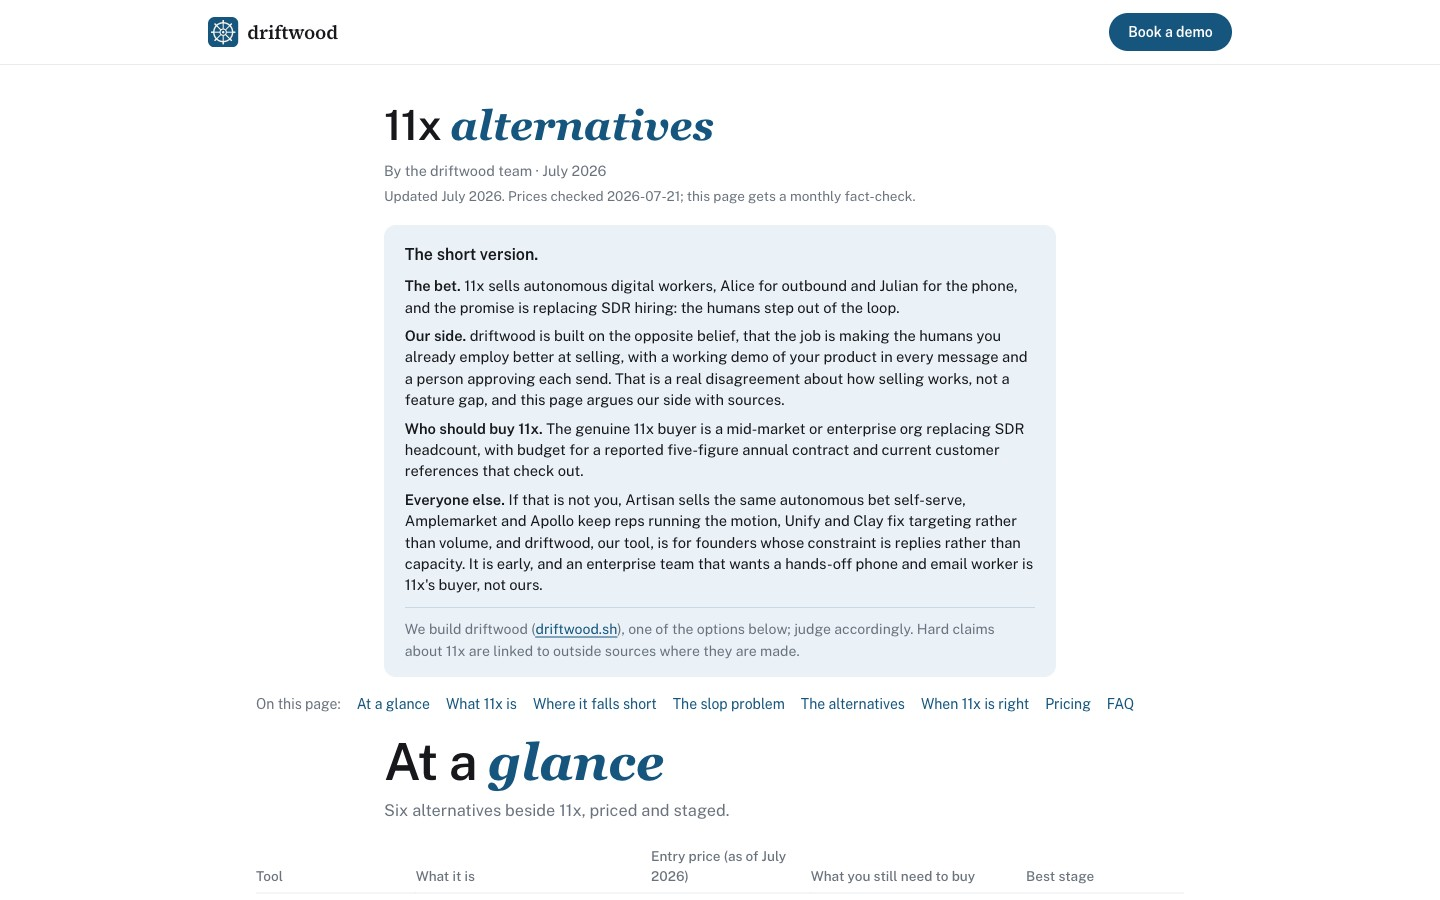
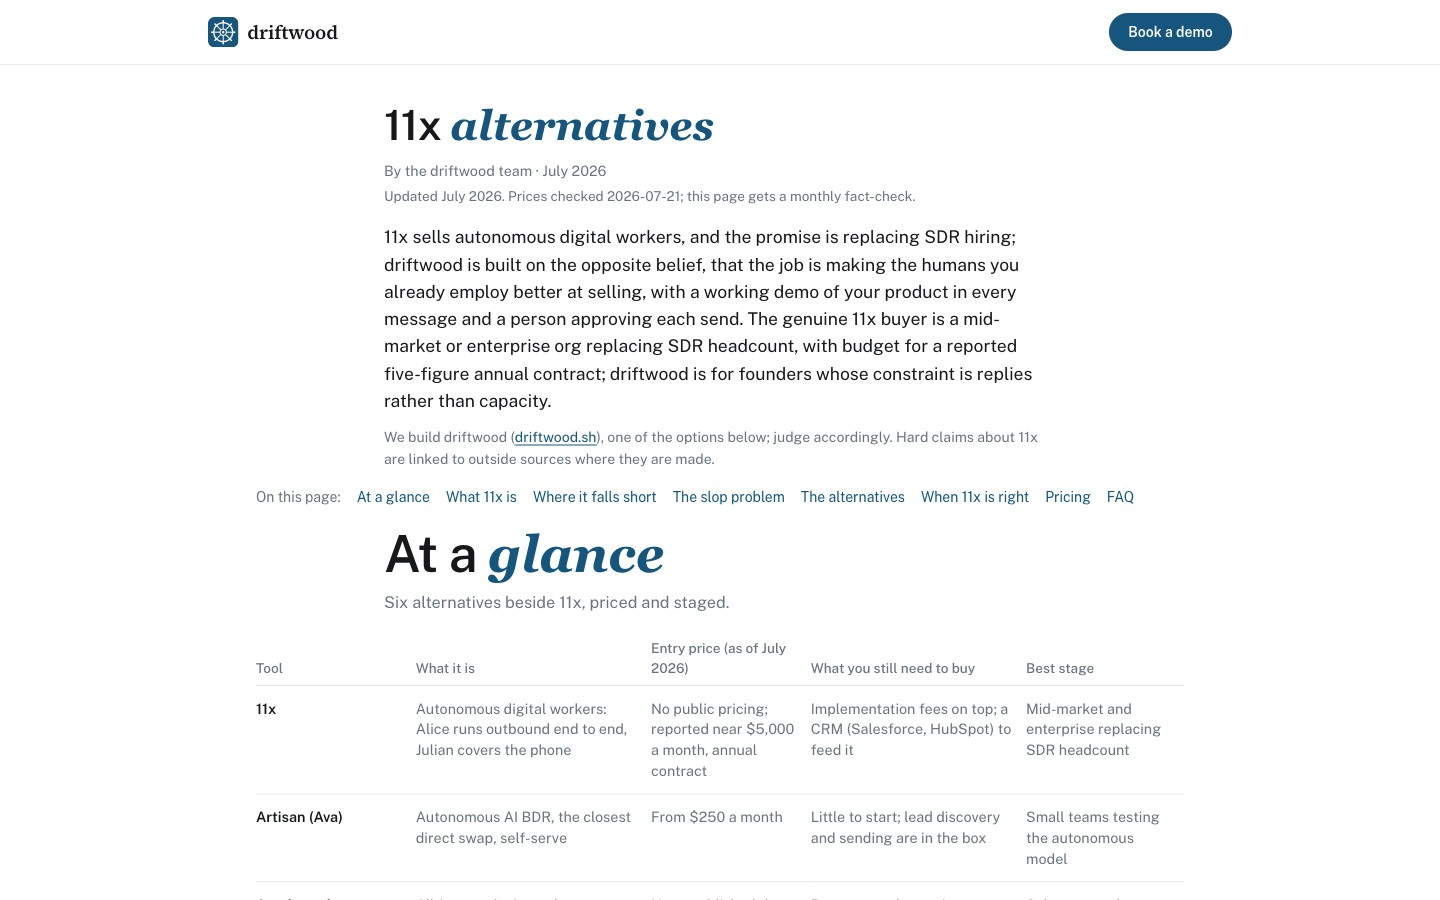
Kill the top panel: TLDR as plain two-sentence deck, disclosure one gray line, glance table rises into the fold; no-top-box rule recorded in SEO.md

diff --git a/design/draft-page-alternatives-11x-v2.html b/design/draft-page-alternatives-11x-v2.html
@@ -36,6 +36,7 @@ Finishing pass (2026-07-21, screenshot-verified at 1440x900; sentences untouched
 - img height:auto added (the standalone page lacks the Tailwind preflight the homepage relies on; without it the width/height attrs stretched the demo clip portrait).
 - Wave shoulders switched to absolute positioning (the negative-margin version collapsed through the section here, leaving flat seams on both sheets and the footer).
 - section[id] scroll-margin so the #slop jump clears the sticky header.
+Deck pass (2026-07-21, founder feedback: the top box had too much text and ruined the look): the tide-wash short-version panel is removed entirely; in its place a two-sentence plain-text deck under the byline (hero-sub scale, ink on white, no container) compressing the same verdict, the disclosure kept as one gray line beneath it, the everyone-else routing moved into The alternatives intro, the driftwood concession left where it already lives in the entry, and the unused verdict CSS deleted.
 -->
 <!doctype html>
 <html lang="en">
@@ -209,24 +210,15 @@ Finishing pass (2026-07-21, screenshot-verified at 1440x900; sentences untouched
   .byline { margin-top: 0.6rem; font-size: 0.9rem; color: var(--gray); }
   .updated { margin-top: 0.2rem; font-size: 0.85rem; color: var(--gray); }
 
-  /* ---------- the one top panel: verdict, disclosure in its footer ---------- */
-  .verdict {
-    margin-top: 1.2rem; padding: 1.05rem 1.3rem 0.85rem;
-    background: var(--tide-wash); border-radius: var(--r-win);
-    color: var(--ink); font-size: 0.92rem;
+  /* ---------- deck: plain lede text under the byline (the hero-sub scale) ---------- */
+  .deck {
+    margin-top: 1.1rem; font-size: 1.1rem; line-height: 1.55;
+    color: var(--ink); max-width: 62ch;
   }
-  .verdict-title { font-weight: 600; font-size: 1rem; }
-  .verdict-list { margin: 0.55rem 0 0; padding: 0; list-style: none; display: grid; gap: 0.45rem; }
-  .verdict-list li { line-height: 1.45; }
-  .verdict-list strong, .verdict strong { font-weight: 600; }
-  .verdict a {
+  .disclosure { margin-top: 0.7rem; font-size: 0.88rem; color: var(--gray); }
+  .disclosure a {
     color: var(--tide); text-decoration: underline;
     text-underline-offset: 3px; text-decoration-thickness: 1px;
-  }
-  .verdict-foot {
-    margin-top: 0.7rem; padding-block: 0.6rem 0.15rem;
-    border-top: 1px solid rgba(21,85,126,0.16);
-    font-size: 0.88rem; color: var(--gray);
   }
 
   /* ---------- jump nav ---------- */
@@ -596,34 +588,18 @@ Finishing pass (2026-07-21, screenshot-verified at 1440x900; sentences untouched
       <p class="byline">By the driftwood team · July 2026</p>
       <p class="updated">Updated July 2026. Prices checked 2026-07-21; this page gets a monthly fact-check.</p>
 
-      <div class="verdict">
-        <p class="verdict-title">The short version.</p>
-        <ul class="verdict-list">
-          <li><strong>The bet.</strong> 11x sells autonomous digital
-          workers, Alice for outbound and Julian for the phone, and the promise
-          is replacing SDR hiring: the humans step out of the loop.</li>
-          <li><strong>Our side.</strong> driftwood is
-          built on the opposite belief, that the job is making the humans you
-          already employ better at selling, with a working demo of your product
-          in every message and a person approving each send. That is a real
-          disagreement about how selling works, not a feature gap, and this page
-          argues our side with sources.</li>
-          <li><strong>Who should buy 11x.</strong> The genuine 11x buyer is a
-          mid-market or enterprise org replacing SDR headcount, with budget for a
-          reported five-figure annual contract and current customer references
-          that check out.</li>
-          <li><strong>Everyone else.</strong> If that is not you, Artisan sells
-          the same autonomous bet self-serve, Amplemarket and Apollo keep reps
-          running the motion, Unify and Clay fix targeting rather than volume,
-          and driftwood, our tool, is for founders whose constraint is replies
-          rather than capacity. It is early, and an enterprise team that wants a
-          hands-off phone and email worker is 11x's buyer, not ours.</li>
-        </ul>
-        <p class="verdict-foot">We build driftwood
-        (<a href="https://driftwood.sh">driftwood.sh</a>), one of the options
-        below; judge accordingly. Hard claims about 11x are linked to outside
-        sources where they are made.</p>
-      </div>
+      <p class="deck">11x sells autonomous digital workers, and the promise is
+      replacing SDR hiring; driftwood is built on the opposite belief, that the
+      job is making the humans you already employ better at selling, with a
+      working demo of your product in every message and a person approving each
+      send. The genuine 11x buyer is a mid-market or enterprise org replacing
+      SDR headcount, with budget for a reported five-figure annual contract;
+      driftwood is for founders whose constraint is replies rather than
+      capacity.</p>
+      <p class="disclosure">We build driftwood
+      (<a href="https://driftwood.sh">driftwood.sh</a>), one of the options
+      below; judge accordingly. Hard claims about 11x are linked to outside
+      sources where they are made.</p>
 
     </div>
     <div class="wrap wrap-wide">
@@ -1029,7 +1005,9 @@ Finishing pass (2026-07-21, screenshot-verified at 1440x900; sentences untouched
         <h2 id="alternatives">The <em class="voice">alternatives</em></h2>
         <p class="h2-sub">
           driftwood is listed first because it is ours; the other five run from the
-          closest swap for 11x to the furthest.
+          closest swap for 11x to the furthest. Artisan sells the same autonomous
+          bet self-serve, Amplemarket and Apollo keep reps running the motion, and
+          Unify and Clay fix targeting rather than volume.
         </p>
 
         <div class="entries">

diff --git a/SEO.md b/SEO.md
@@ -153,17 +153,19 @@ structure.
   generically. Contrarian never means unfair: named sources,
   both-sides reporting, and "when X is right" sections all stay;
   the stance shows in what we choose to compare, not in dunking.
-- Visual layer (Aayush 2026-07-21, second round on the exemplar:
-  copy approved, visuals rejected): pages must be scannable and
-  clickable, not just rankable. Requirements: brand heading and
-  type choices per design/design-language.md (the draft diverged);
-  ONE consolidated top-of-page element, never stacked disclosure
-  boxes; a slop-vs-not-slop graphic (his suggestion): a
-  volume-agent email side by side with a driftwood send; wordiness
-  is fine for SEO but the page must not LOOK wordy. Process rule:
-  page-pattern research includes a SCREENSHOT-based visual audit of
-  the exemplar sites vs ours; content-structure audits alone are
-  half the job.
+- Visual layer (Aayush 2026-07-21, rounds two and three on the
+  exemplar): pages must be scannable and clickable, not just
+  rankable. Requirements: brand heading and type choices per
+  design/design-language.md (the draft diverged); NO box/panel at
+  the top of the page AT ALL — a big tinted box full of text
+  "completely ruins the look" (rejected twice: stacked boxes, then
+  one merged box). The TLDR is fine but it is 2-3 sentences of
+  PLAIN deck text under the H1, disclosure as one casual gray line;
+  a slop-vs-not-slop graphic (his suggestion): a volume-agent email
+  side by side with a driftwood send; wordiness is fine for SEO but
+  the page must not LOOK wordy. Process rule: page-pattern research
+  includes a SCREENSHOT-based visual audit of the exemplar sites vs
+  ours; content-structure audits alone are half the job.
 
 ## Press (folded from PRESS.md; 104-agent verified research 2026-07-21)
 
